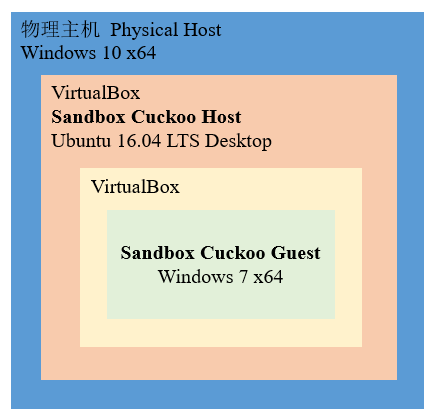
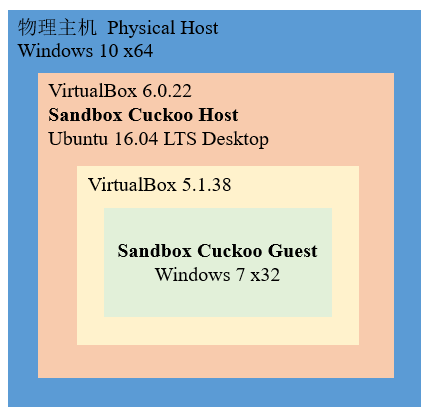
天坑之作

diff --git a/hw-0x09-cuckoo/README.md b/hw-0x09-cuckoo/README.md
@@ -21,14 +21,13 @@
 > 根据cuckoo的架构可以得知，一个恶意软件被安装配置了cuckoo的host提交到各个guest进行运行分析时，host是想要知道guest的所有流量信息的，因为绝大部分的恶意软件搞破坏都依赖网络。
 > 此时只有设置Host-Only连接，host才能截获guest与互联网之间流经的所有流量，才能更好的分析恶意软件的行为方式。
 
-
 照众多教程，应该是在Ubuntu主机中安装virtualbox，然后再在这个virtualbox中新建一个win7客机虚拟机。然鹅我们此处的环境是在Ubuntu主机和Win7客机都是virtualbox的虚拟机，所以要在虚拟机中再装一个虚拟机 [ 电脑吃不消 ] 
 
 <img src="./img/nested.png" width=50%>
 
 <img src="./img/topology.png" width=70%>
 
-如果不使用套娃行为，将Host和Guest都安装在物理主机的Virtualbox软件中进行测试，我还实现不了
+~~如果不使用套娃行为，将Host和Guest都安装在物理主机的Virtualbox软件中进行测试，我还实现不了~~
 
 ## Preparing the Host 
 
@@ -101,6 +100,12 @@ $ . venv/bin/activate
   > pip install setuptools==44.0.0
 - 提示有什么依赖包没有获取需要retry到则重新pip install，依赖包的版本需要严格按照提示安装
 
+### Guest、网络配置以及cuckoo conf配置文件的编写
+
+<details>
+
+<summary>又浪费了我在阳间的几秒钟 - 测试host和guest都安装在物理主机上，某些配置作为参考</summary>
+
 ### Preparing the Guest
 
 > We recommend either 64-bit Windows 7 or Windows XP virtual machines. For Windows 7 you will have to disable User Access Control.
@@ -109,6 +114,8 @@ $ . venv/bin/activate
 ```cmd
 # windows python 2.7.12 https://www.python.org/downloads/release/python-2712/
 
+# 安装PIL：命令行进到C:\Python27\Scripts路径下
+# pip install Pillow -i https://pypi.tuna.tsinghua.edu.cn/simple
 ```
 
 #### 虚拟网络设置
@@ -204,10 +211,9 @@ $ sudo service dnsmasq start
     reg add "HKEY_LOCAL_MACHINE\SOFTWARE\Microsoft\Windows\CurrentVersion\Policies\System" /v LocalAccountTokenFilterPolicy /d 0x01 /t REG_DWORD /f
     ```
 
-安装PIL：命令行进到C:\Python27\Scripts路径下`pip install Pillow -i https://pypi.tuna.tsinghua.edu.cn/simple`
-
 #### 创建快照
 
+- 保证在agent.py或者agent.pyw启动时
 - 用virtualbox创建，名为`snapshot1`
 - cuckoo在每次执行任务的时候会先恢复虚拟机快照
 
@@ -257,7 +263,7 @@ controlports = 5000-5050
 [cuckoo1]  # 需要与machines一致
 label = cuckoo1 # 你的虚拟机名称，需要与machines一致
 platform = windows
-ip = 192.168.56.101 # 虚拟机IP 
+ip = 192.168.56.2 # 虚拟机IP 
 snapshot = snapshot1 # 创建的快照名称
 ```
 
@@ -297,26 +303,198 @@ paginate = 100
 
   觉得应该是guest客机和主机没有配置好的缘故
   
-  但是`cuckoo web`仍旧可以访问页面，但是没有了guest是无法分析出东西的，页面只会是pending状态，分析不出结果
+  但是`cuckoo web`仍旧可以访问页面，但是没有了guest是无法分析出东西的，页面只会是pending状态，分析不出结果 - 唔 这也可能是需要的时间太久了
 
   <img src="./img/pending.png">
 
+</details>
+
 <details>
 
-<summary>还是乖乖的套娃吧</summary>
+<summary>看这看这，还是乖乖的套娃吧</summary>
 
-### Installing the Guest
+### the Guest - [部分步骤可参照前]
 
-- 在Ubuntu中装virtualbox
+- [在Ubuntu中装virtualbox](#requirements)
+  ```bash
+  # 安装增强功能
+  sudo apt-get install virtualbox-ext-pack
+
+  # 打开virtualbox
+  virtualbox --version
+  ```
+- 在Virtualbox下只能选择win7 x32，取名为`cuckoo1`
+  
+  <img src="./img/horrible-nested.png" width=50%>
+
+- Turn off firewall，同理Turn off auto update和Turn Windows UAC to minimum
+  
+  <img src="./img/firewall.png">
+
+- [Install Python 2.7 和 Pillow](#preparing-the-guest)
+- [Install the Cuckoo Agent](#installing-the-agent)
+
+#### Network for the Guest
+
+给guest配置一个host-only网卡：vboxnet0，这样guest只能和Cuckoo host通信。并配置网卡固定IP地址：192.168.56.1，如下图：
+
+<img src="./img/vboxnet0-modify.png">
+
+再配置guest Windows 7的网络：
+- [参见](#虚拟网络设置)
+- ip: 192.168.56.2(其它亦可)
+- 掩码: 255.255.255.0
+- 网关: 192.168.56.1
+- preferred DNS server：192.168.56.1
+- alternate DNS server：114.114.114.114
+  
+Cuckoo guest与Cuckoo host互ping，验证是否配置成功
+
+<img src="./img/guesthostping-success.png">
+
+#### Config Cuckoo Host Packet Forward(报文转发)
+
+由于guest配置是host-only的，不能直接访问Internet。所以要在Cuckoo host中用iptable，设置报文转发
+
+```bash
+$ sudo iptables -A FORWARD -o enp0s3 -i vboxnet0 -s 192.168.56.0/24 -m conntrack --ctstate NEW -j ACCEPT
+$ sudo iptables -A FORWARD -m conntrack --ctstate ESTABLISHED,RELATED -j ACCEPT
+$ sudo iptables -A POSTROUTING -t nat -j MASQUERADE
+```
+- enp0s3是本地机器Cuckoo host网络适配器的名字
+- 配置完成后，guest Windows 7就可以访问Internet，cuckoo host仍旧可以访问Internet
+  
+  <img src="./img/guestaccessinternet.png">
+
+如果希望报文转发重启后依然有效：
+- 修改/etc/sysctl.conf
+- 去掉net.ipv4.ip_forward=1的注释
+- 执行`$ sudo sysctl -p /etc/sysctl.conf`
+
+再运行：
+```bash
+$ sudo apt-get install iptables-persistent
+$ sudo netfilter-persistent save
+```
+
+### 配置conf文件
+
+cuckoo.conf
+
+```conf
+[resultserver]
+ip = 192.168.56.1 # 此处填写主机host-only网卡设置的静态IP
+
+[cuckoo]
+version_check = no # 每次启动都要检查更新很费时间，可以选择关闭
+machinery = virtualbox
+
+memory_dump = yes
+```
+
+auxillary.conf
+
+```conf
+[sniffer]
+enabled = yes
+tcpdump = /usr/sbin/tcpdump # which tcpdump
+```
+
+virtualbox.conf
+```conf
+[virtualbox]
+mode = gui # gui是有界面，headless是无界面，调试的时候可以选择
+path = /usr/bin/vboxmanage
+interface = vboxnet0
+machines = cuckoo1 # 你的虚拟机名称 即启动win7 输入密码对应的用户名
+controlports = 5000-5050
+
+[cuckoo1]  # 需要与machines一致
+label = cuckoo1 # 你的虚拟机名称，需要与machines一致
+platform = windows
+ip = 192.168.56.2 # 虚拟机IP 
+snapshot = snapshot1 # 创建的快照名称
+```
+
+report.conf
+
+```conf
+[singlefile] # Enable creation of report.html and/or report.pdf?
+enabled = yes
+# Enable creation of report.html?
+html = yes
+# Enable creation of report.pdf?
+pdf = no
+
+[mongodb] enabled = yes
+host = 127.0.0.1
+port = 27017
+db = cuckoo
+store_memdump = yes
+paginate = 100
+```
+
+[其余的conf参照](#cuckoo配置)
 
 </details>
 
+### 启动Cuckoo
+
+cuckoo 或者 cuckoo -d (会自动关闭虚拟机)
+
+> ERROR: Error in analysis manager cleanup: 'AnalysisManager' object has no attribute 'aux'
+> Traceback (most recent call last):
+>  File "/home/zizi/venv/local/lib/python2.7/site-packages/cuckoo/core/scheduler.py", line 961, in _cleanup_managers
+>    am.cleanup()
+>  File "/home/zizi/venv/local/lib/python2.7/site-packages/cuckoo/core/scheduler.py", line 820, in cleanup
+>    self.aux.stop()
+> AttributeError: 'AnalysisManager' object has no attribute 'aux'
+> 解决方法：修改对应的文件/home/zizi/venv/local/lib/python2.7/site-packages/cuckoo/core/scheduler.py，将self.aux.stop()注释
+
+同时 cuckoo web runserver
+
+<img src="./img/start-success.png">
+
+上传，提交，分析，会自动打开win7虚拟机[ 快照 ]，在win7虚拟机中运行
+
+<img src="./img/startsnapshot.png" width=70%>
+
+分析成功
+
+<img src="./img/completed.png">
+
+点击reported会出现分析过程以及运行截图
+
+<img src="./img/screenshot.png">
+
+- hh，这是个人畜无害的小游戏，由于win7没有他的执行环境，所以并未分析出什么
+- 试分析了熊猫烧香，左侧选择“Behavioral Analysis”，恶意样本一般包含创建文件和修改注册表的行为
+  - 熊猫烧香的原理：
+    > 1. 拷贝文件：病毒运行后，会把自己拷贝到C:\WINDOWS\System32\Drivers\spoclsv.exe 
+    > 2. 添加注册表自启动：病毒会添加自启动项HKEY_CURRENT_USER\Software\Microsoft\Windows\CurrentVersion\Run svcshare -> C:\WINDOWS\System32\Drivers\spoclsv.exe 
+    > 3. 病毒行为 [ 略述 ]
+    >    a. 每隔1秒寻找桌面窗口,并关闭窗口标题中含有以下字符的程序： 防火墙、进程...
+    >    b. 感染文件  & 删除文件
+    >    d. 每隔6秒删除安全软件在注册表中的键值
+  - 进程树
+    
+    <img src="./img/process-tree.png">
+
+  - 先试着查找创建文件的行为，在搜索框输入“NtCreateFile”，搜索，如下
+
+    <img src="./img/NTCreateFile.png">
+
+  - 试着查找修改注册表的行为，在搜索框输入“RegSetValueExA”，可以看到服务的键值指向了刚才的exe程序路径
+    
+    <img src="./img/RegSetValueExA.png">
+
 ## Reference
 
+- [Cuckoo Sandbox沙箱系列(一)-安装配置Host](https://maofeichen.com/systemsecurity/2019/04/11/cuckoo-install-01.html#1-architecture--network-topology)
+- [Cuckoo Sandbox沙箱系列(二)-安装配置Guest](maofeichen.com/systemsecurity/2019/04/24/cuckoo-install-02.html#1-prepare-the-guest)
 - https://blog.csdn.net/baobaoyu_/article/details/103047082
 - https://blog.csdn.net/Bingoooooo_/article/details/94248229
-
-在win10上搭建的参考资料
-
-- [Cuckoo Linux Subsystem: Some Love for Windows 10](https://www.trustwave.com/en-us/resources/blogs/spiderlabs-blog/cuckoo-linux-subsystem-some-love-for-windows-10/)
-- [从零开始搭建Cuckoo Sandbox(1)](https://www.secpulse.com/archives/74821.html)
+- https://cuckoo.cert.ee/dashboard/
+- 以win10 wsl作为host上搭建的参考资料
+  - [Cuckoo Linux Subsystem: Some Love for Windows 10](https://www.trustwave.com/en-us/resources/blogs/spiderlabs-blog/cuckoo-linux-subsystem-some-love-for-windows-10/)
+  - [从零开始搭建Cuckoo Sandbox(1)](https://www.secpulse.com/archives/74821.html)
